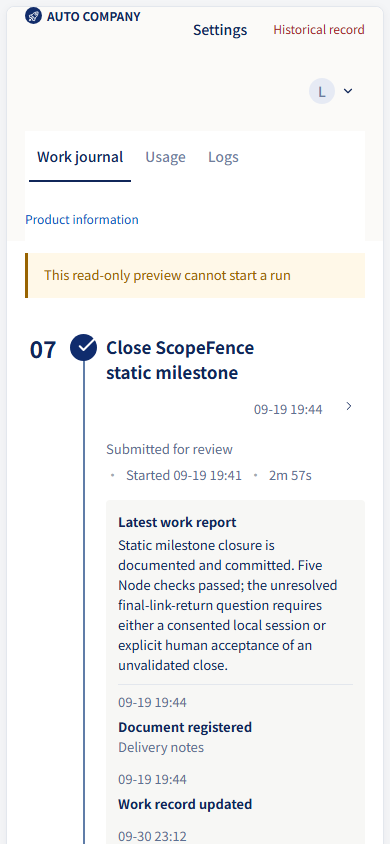
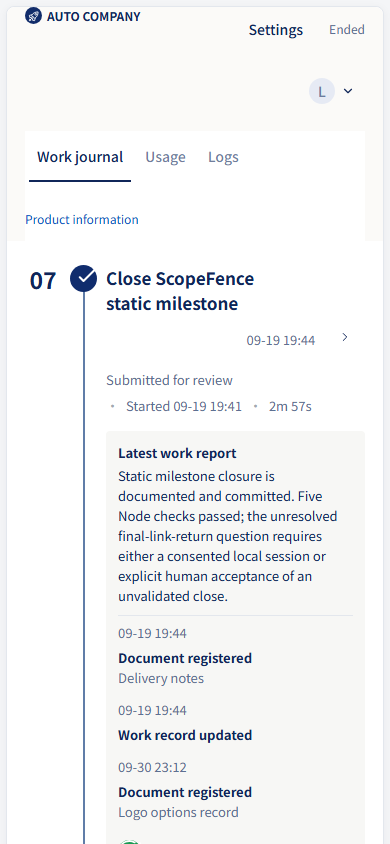
docs: refine product detail showcase screenshots

diff --git a/presentation/showcase/README.md b/presentation/showcase/README.md
@@ -1,8 +1,8 @@
-# Recorded work timelines · 真实工作时间轴
+# Work timeline demos · 工作时间轴演示
 
-These six views show three products' real recorded work. Exploration and product work keep one continuous sequence, with the newest report and product screenshot open and earlier cycles collapsed. Manual history expansion survives page reload within the browser session; product screenshots remain visible. The screenshots preserve original cycle identities, timestamps, statuses, checks and recorded limitations.
+These six presentation views use three products' real recorded work. Unavailable runtime status and concurrency fields are illustrated as **Ended / No**; the read-only notice is omitted. These display values are not evidence of a live process state. Exploration and product work keep one continuous sequence, with the newest report and product screenshot open and earlier cycles collapsed. Manual history expansion survives page reload within the browser session; product screenshots remain visible. The screenshots preserve original cycle identities, timestamps, statuses, checks and recorded limitations.
 
-六个视图展示三个产品的真实运行记录。探索和产品工作连续编号，最新报告与产品实拍展开、早期轮次保持默认折叠；手动展开历史轮次的选择在本次浏览器会话重载后保留；产品实拍保持可见。原始轮次身份、时间、状态、检查与已记录的限制均保留。
+六个演示视图使用三个产品的真实运行记录。无法获取的运行状态和并发占用以 **已结束 / 否** 作为展示值，并省略只读提示条；这些展示值不代表实际进程状态证据。探索和产品工作连续编号，最新报告与产品实拍展开、早期轮次保持默认折叠；手动展开历史轮次的选择在本次浏览器会话重载后保留；产品实拍保持可见。原始轮次身份、时间、状态、检查与已记录的限制均保留。
 
 | Product / 产品 | Recorded cycles / 真实轮次 | English | 中文 |
 | --- | --- | --- | --- |
@@ -26,13 +26,13 @@ The expanded product screenshot is a language-matched display of the previously 
 
 ## Capture / 捕获
 
-[capture_showcase.cjs](../../scripts/media/capture_showcase.cjs) reads the actual local, read-only journal page and its API. It checks original identities, chronology, statuses, report digests and unchanged inventories before and after capture. It waits for fonts and visible images, and checks language, clipped text, failed images and horizontal overflow. No requests are mocked, records injected, interface elements hidden or image pixels edited. All six final views passed these checks.
+[capture_showcase.cjs](../../scripts/media/capture_showcase.cjs) reads the actual local, read-only journal page and its API. It checks original identities, chronology, statuses, report digests and unchanged inventories before and after capture. It waits for fonts and visible images, and checks language, clipped text, failed images and horizontal overflow. With `--presentation-demo`, only unavailable runtime labels are filled and the read-only notice is hidden in the browser. APIs, source records and image pixels are not modified; each display replacement is listed in the manifest. All six final views passed these checks.
 
-捕获脚本读取真实本机只读页面与 API，校验原身份、时间顺序、状态、报告哈希及捕获前后不变的轮次清单；等待字体和可见图片加载，并检查混语、文字截断、图片失败与横向溢出。没有请求模拟、记录注入、界面隐藏或像素编辑，最终六视图均通过检查。
+捕获脚本读取真实本机只读页面与 API，校验原身份、时间顺序、状态、报告哈希及捕获前后不变的轮次清单；等待字体和可见图片加载，并检查混语、文字截断、图片失败与横向溢出。启用 `--presentation-demo` 后，只在浏览器展示层补齐缺失状态并隐藏只读提示；API、源记录和图片像素不修改，每项展示替换记入清单。最终六视图均通过检查。
 
-Desktop width is 1440 px; height follows actual content through the complete timeline and product sidebar. Mobile viewport is 390 × 844 px, with a separate native full-page capture. This set was captured with Windows Chromium build 1243, Playwright 1.63.0 and device scale 1. The interface uses its configured Noto Sans SC stack with system fallbacks; no font overrides were injected. Capture times in the index are UTC; the visible journal uses its recorded local times. Runtime state, historical checks and report limitations remain as recorded. Runtime diagnostics are available in the sidebar and Log tab; the former data-notes disclosure is removed.
+Desktop width is 1440 px; height follows actual content through the complete timeline and product sidebar. Mobile viewport is 390 × 844 px, with a separate native full-page capture. This set was captured with Windows Chromium build 1243, Playwright 1.63.0 and device scale 1. The interface uses its configured Noto Sans SC stack with system fallbacks; no font overrides were injected. Capture times in the index are UTC; the visible journal uses its recorded local times. Historical checks and report limitations remain as recorded; unavailable runtime display fields use the declared demo values. Runtime diagnostics are available in the sidebar and Log tab; the former data-notes disclosure is removed.
 
-桌面宽 1440 像素，高度覆盖完整时间轴与产品栏；手机视口为 390 × 844，另保留浏览器原生完整页面截图。本组使用 Windows Chromium 1243、Playwright 1.63.0、像素比例 1；采用界面配置的 Noto Sans SC 字体栈与系统回退字体，没有注入字体覆盖。清单捕获时间使用 UTC，界面时间来自原记录。运行状态、历史检查与报告中的限制按记录展示。运行诊断可从产品栏和日志页访问，原数据说明折叠区已移除。
+桌面宽 1440 像素，高度覆盖完整时间轴与产品栏；手机视口为 390 × 844，另保留浏览器原生完整页面截图。本组使用 Windows Chromium 1243、Playwright 1.63.0、像素比例 1；采用界面配置的 Noto Sans SC 字体栈与系统回退字体，没有注入字体覆盖。清单捕获时间使用 UTC，界面时间来自原记录。历史检查与报告限制按原记录展示，无法获取的运行状态使用已说明的演示值。运行诊断可从产品栏和日志页访问，原数据说明折叠区已移除。
 
 ## Reproduction / 复现
 
@@ -72,7 +72,7 @@ In the ignored `.auto-company/showcase-capture/` directory, provide the unmodifi
 ```
 
 ```sh
-node scripts/media/capture_showcase.cjs --previews .auto-company/showcase-capture/targets.json --evidence .auto-company/showcase-capture/results.json --out .auto-company/showcase-capture/images
+node scripts/media/capture_showcase.cjs --presentation-demo --previews .auto-company/showcase-capture/targets.json --evidence .auto-company/showcase-capture/results.json --out .auto-company/showcase-capture/images
 ```
 
 All path arguments resolve from the repository root, including when the command is launched elsewhere. Detailed capture results contain source text and belong in an ignored private location; publish only a reviewed manifest of IDs, digests and selected image metadata. The source preview never starts a company loop or changes recorded reports.

diff --git a/README.md b/README.md
@@ -29,7 +29,7 @@ Optional Cursor and OpenAI-compatible adapters require explicit configuration. S
 
 [![ScopeFence · work timeline](presentation/showcase/scopefence-timeline-en.png)](presentation/showcase/scopefence-timeline-en.png)
 
-Click an image to view it at full size. [Capture sources and reproduction](presentation/showcase/README.md).
+Interface demo using recorded work; unavailable runtime fields use sample values. Click an image to view it at full size. [Capture sources and reproduction](presentation/showcase/README.md).
 
 <table>
 <tr><th colspan="2"><a href="examples/scopefence/">ScopeFence</a></th></tr>

diff --git a/README-ZH.md b/README-ZH.md
@@ -29,7 +29,7 @@
 
 [![ScopeFence · 工作时间轴](presentation/showcase/scopefence-timeline-zh-CN.png)](presentation/showcase/scopefence-timeline-zh-CN.png)
 
-点击图片查看原尺寸。[截图来源与复现](presentation/showcase/README.md)。
+界面演示采用真实工作记录，无法获取的运行状态以示例值补齐。点击图片查看原尺寸。[截图来源与复现](presentation/showcase/README.md)。
 
 <table>
 <tr><th colspan="2"><a href="examples/scopefence/">范围确认单</a></th></tr>
